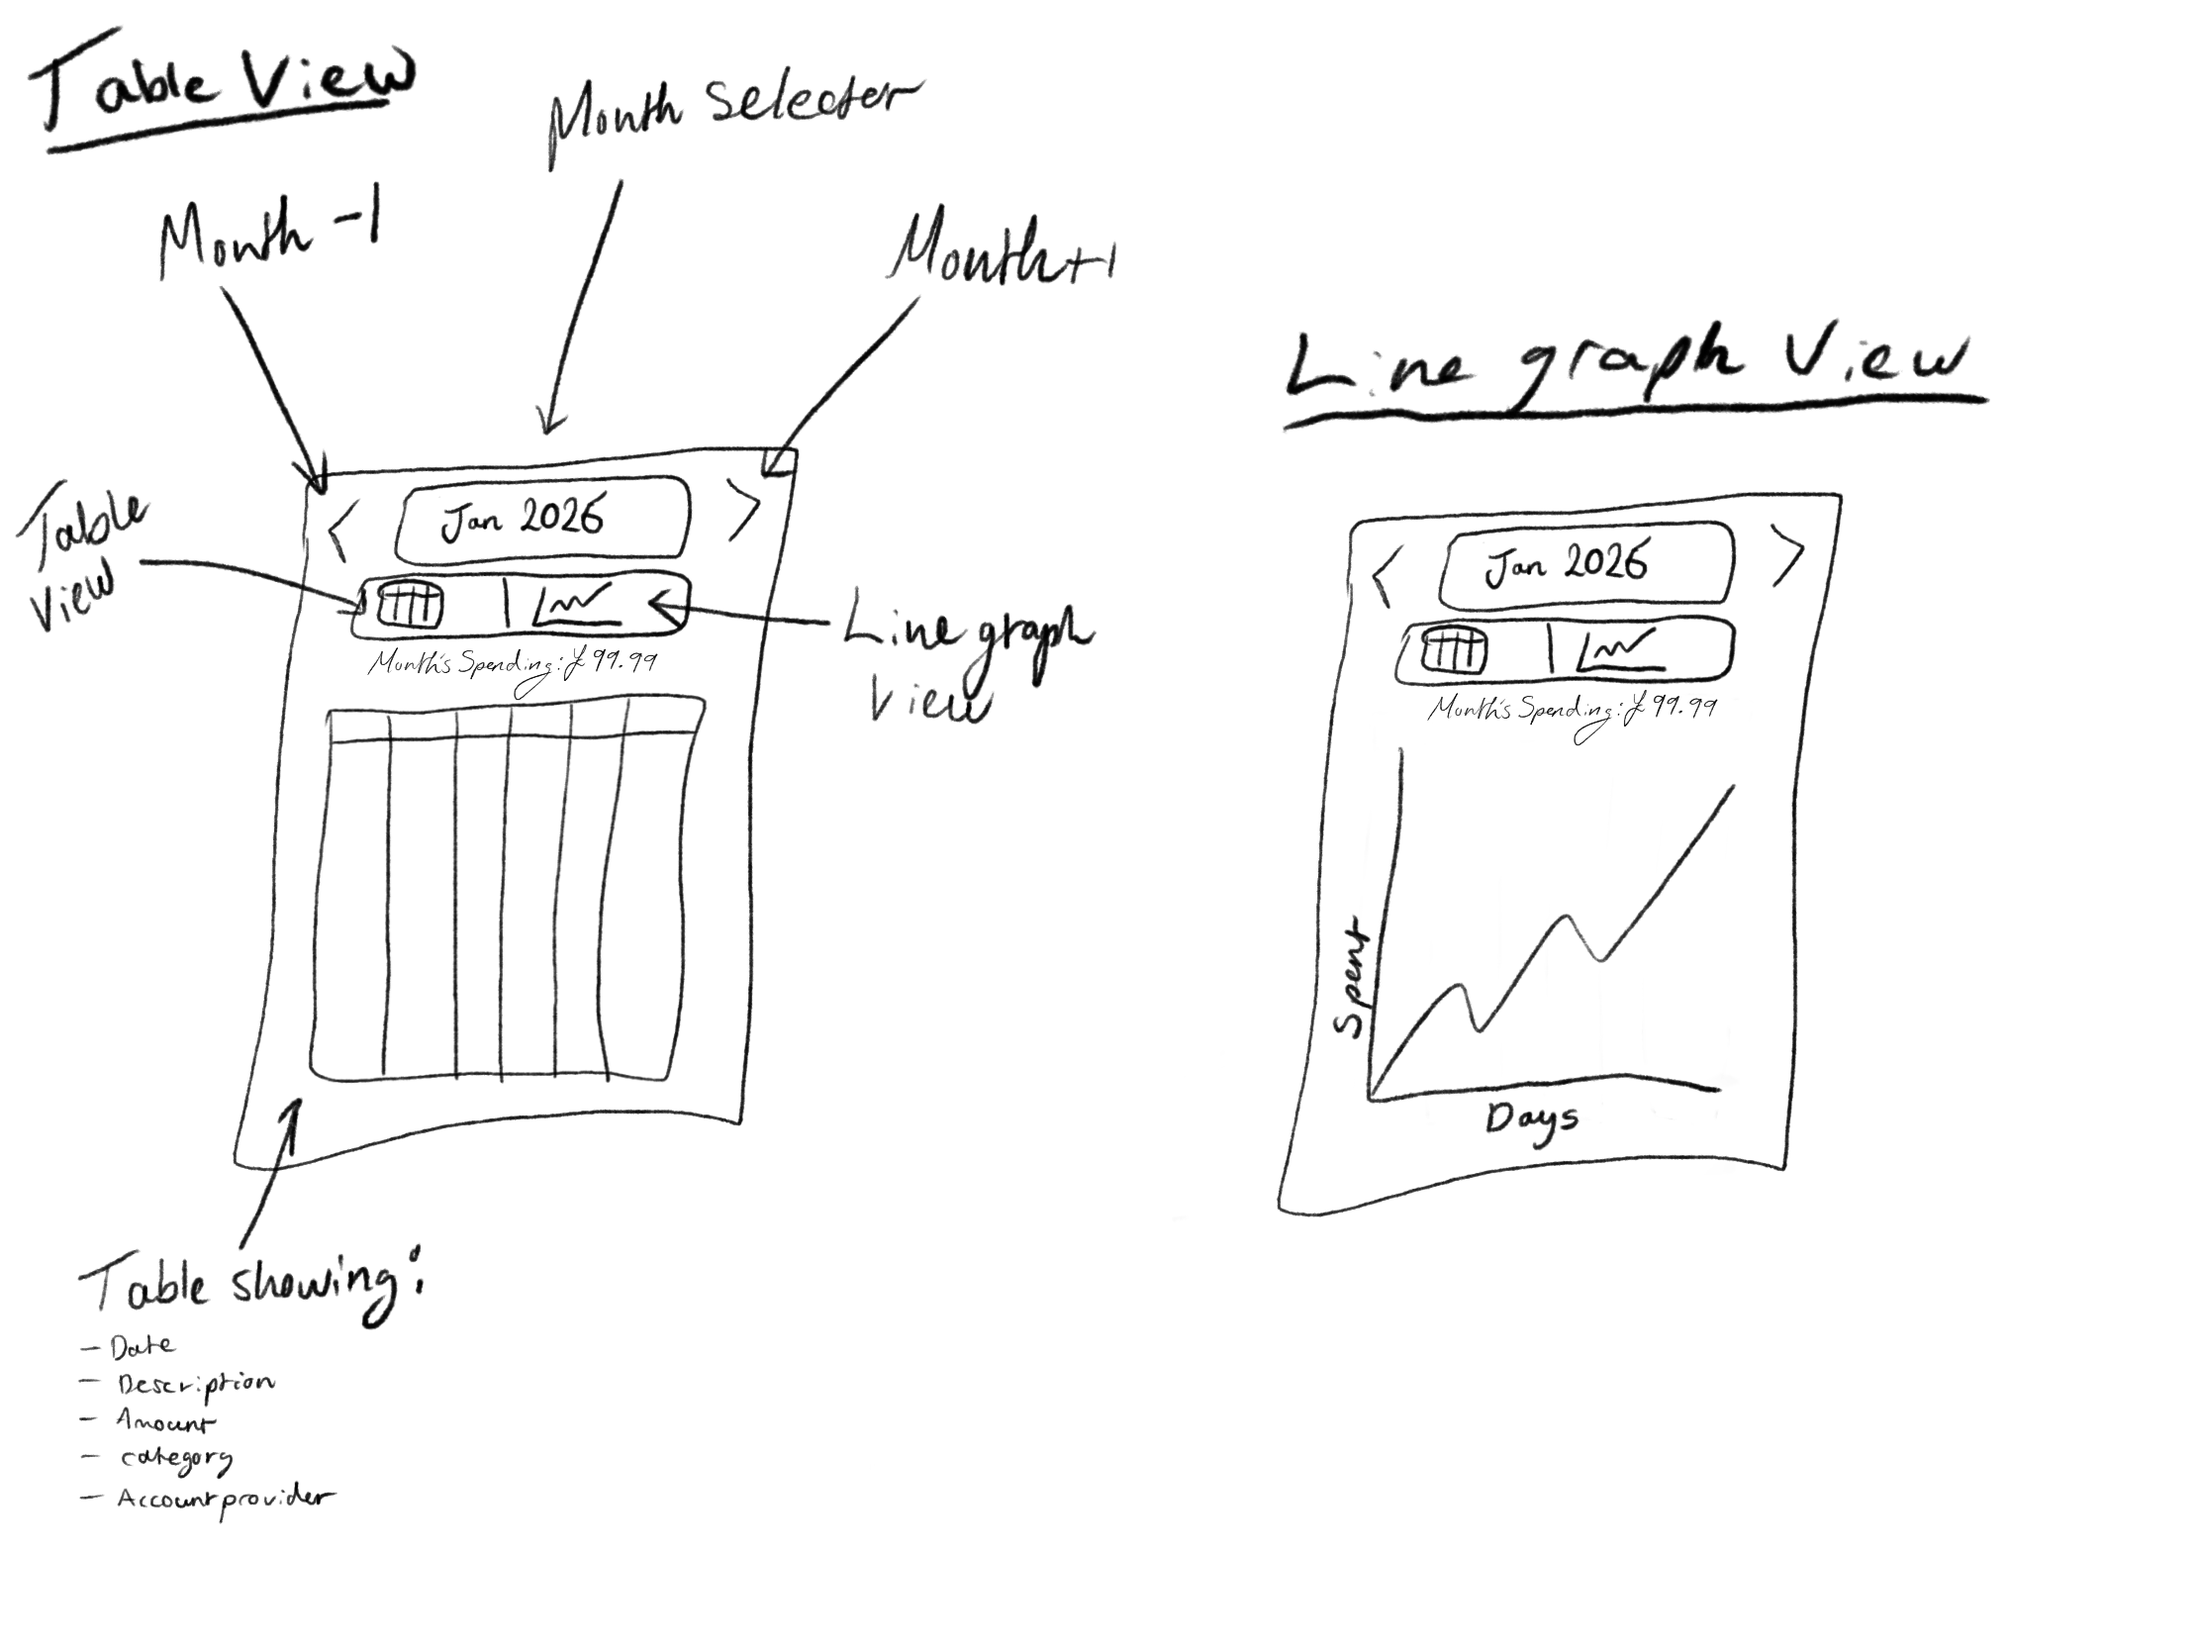
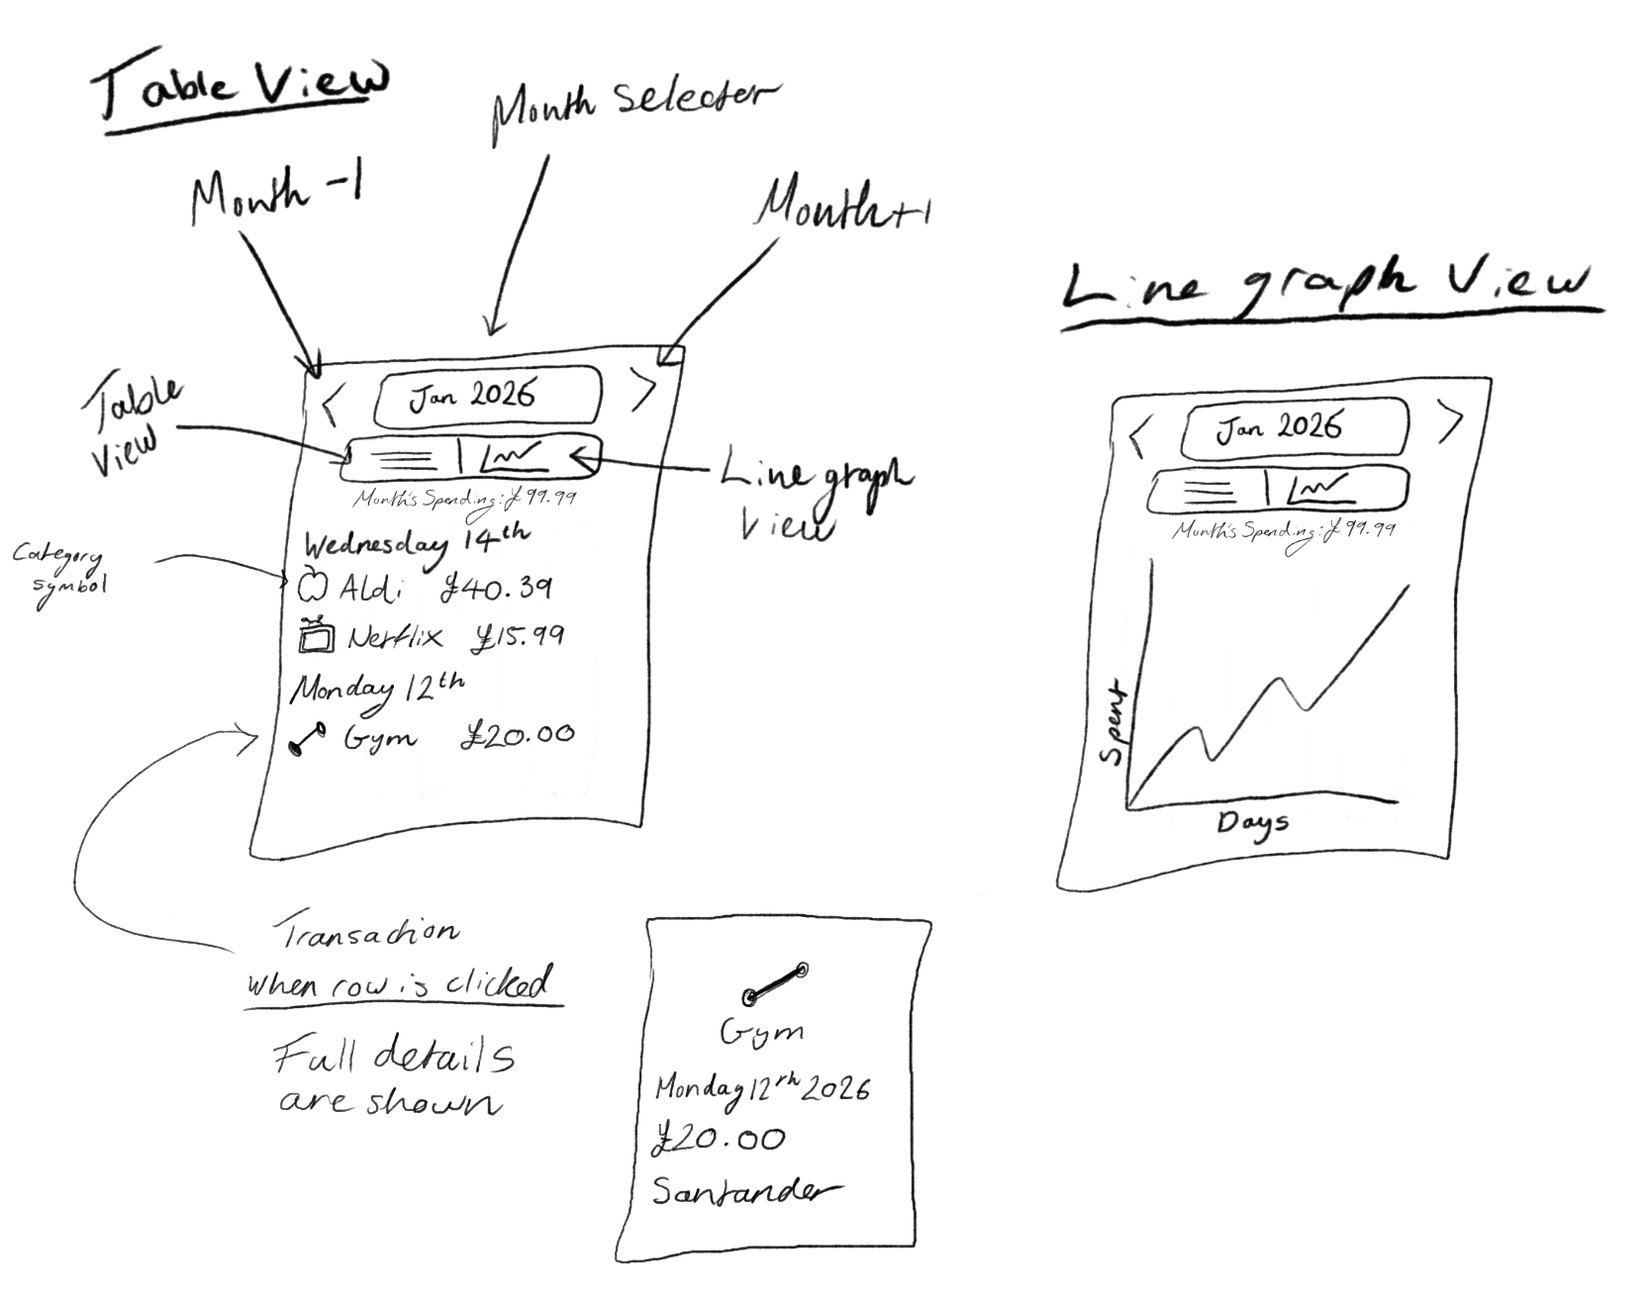
Updated how transactions are shown

diff --git a/README.md b/README.md
@@ -111,8 +111,9 @@ Hand-drawn wireframes showing the two main views of the application:
 
 ![Budget Tracker Wireframe](docs/wireframes/Budget_Tracker_Wireframe.png)
 
-**Table View** — month selector, monthly total, and a scrollable transaction table
-showing date, description, amount, category, and account provider.
+**Table View** — month selector, monthly total, and transactions grouped 
+by date. Each row shows a category icon, description and amount. 
+Tapping a row reveals full details including date, amount and account provider.
 
 **Line Graph View** — same header with a cumulative spending line chart
 plotting spend over days in the selected month.
@@ -129,7 +130,8 @@ plotting spend over days in the selected month.
 ### Planned
 - Month selector with back/forward navigation
 - Monthly spending total
-- Table view: date, description, amount, category, account provider
+- Table view: transactions grouped by date, with category icon, description and amount per row
+- Transaction detail view: full details revealed on tap (date, amount, account provider)
 - Line graph view: cumulative daily spending over selected month
 - User authentication via Azure AD B2C
 - Real bank account integration via Open Banking API
